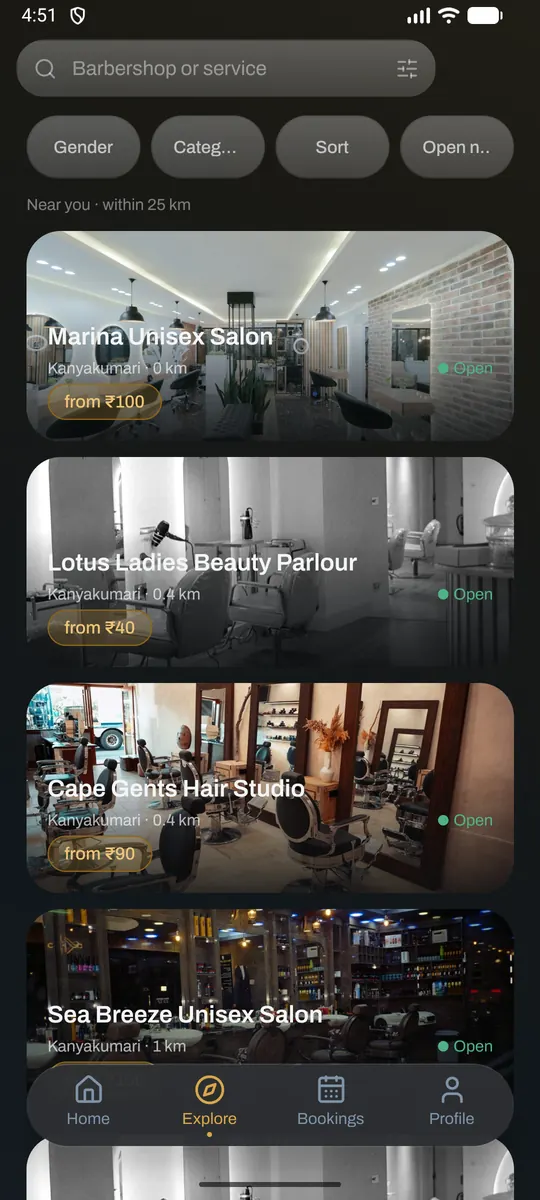
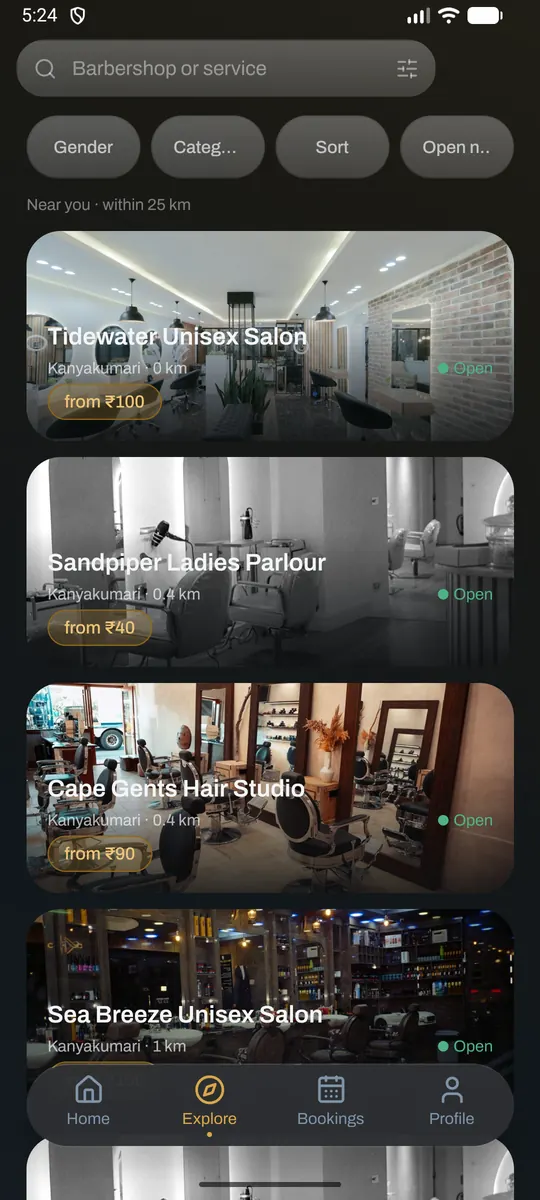
content(site): re-shoot the app screenshots with the renamed demo shops and no street addresses
The first set showed names that match real Nagercoil/Kanyakumari businesses
("Glow Ladies Salon" on the same Parvathipuram road, Marina, Classic, Lotus).
Same screens and states; 07 keeps the blanked coupon placeholder.

diff --git a/docs/assets/CREDITS.md b/docs/assets/CREDITS.md
@@ -2,15 +2,20 @@
 
 ## App screenshots (`screens/`)
 
-Captured 2026-11-21 from the real OGSTYLE app (Android emulator, debug build)
+Captured 2026-11-22 from the real OGSTYLE app (Android emulator, debug build)
 against a **scratch database seeded with demo data only**
 (trim-time `SEED_PROFILE=screens`). No real customers, shops, phone numbers or
 bookings appear. Names such as "Arjun", "Joseph Antony" and the shop names are
 seed fixtures.
 
-- Location was mocked to Kanyakumari town (8.0883, 77.5385). The screens
-  profile adds three fictional demo shops there (Cape Gents Hair Studio, Lotus
-  Ladies Beauty Parlour, Sea Breeze Unisex Salon).
+- Location was mocked to Kanyakumari town (8.0860, 77.5410). The screens
+  profile adds three fictional demo shops there (Cape Gents Hair Studio,
+  Sandpiper Ladies Parlour, Sea Breeze Unisex Salon).
+- Re-shot 2026-11-22 after the demo shops were renamed: four names in the
+  first set matched real businesses in Nagercoil and Kanyakumari on Google
+  Maps, and the rest were renamed as a precaution (trim-time
+  `seed-data/catalogue.ts` has the naming rule). Shops show their area only,
+  with no street address.
 - Every shop uses the new-shop defaults: a 10% advance (₹680 → ₹68 online,
   ₹150 → ₹15) with a ₹10 minimum.
 - `07-review.webp`: the coupon field's placeholder text ("e.g. FLAT100", app
